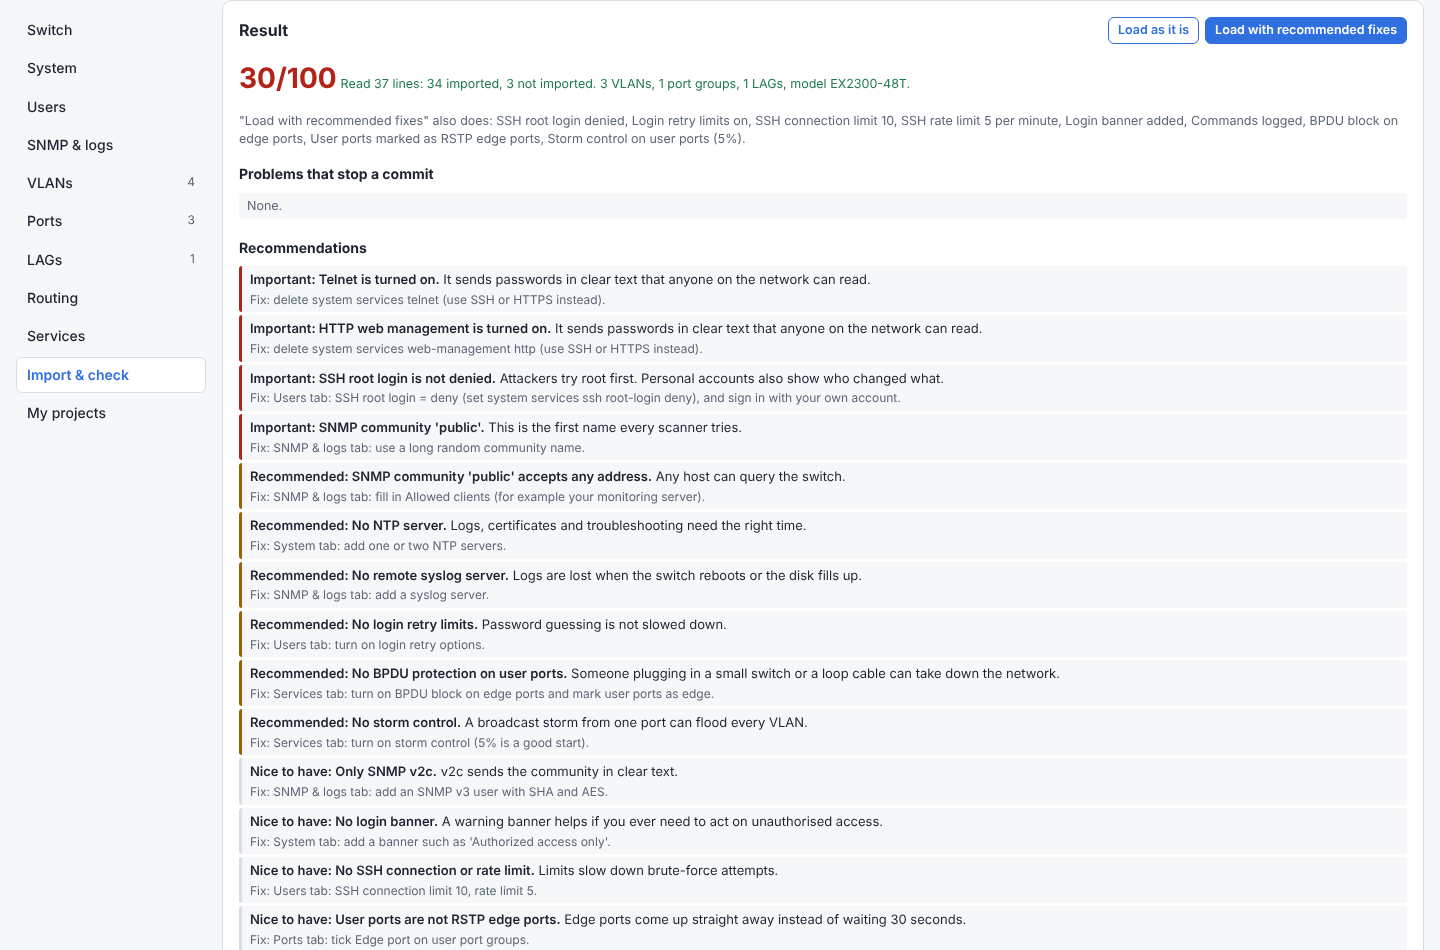
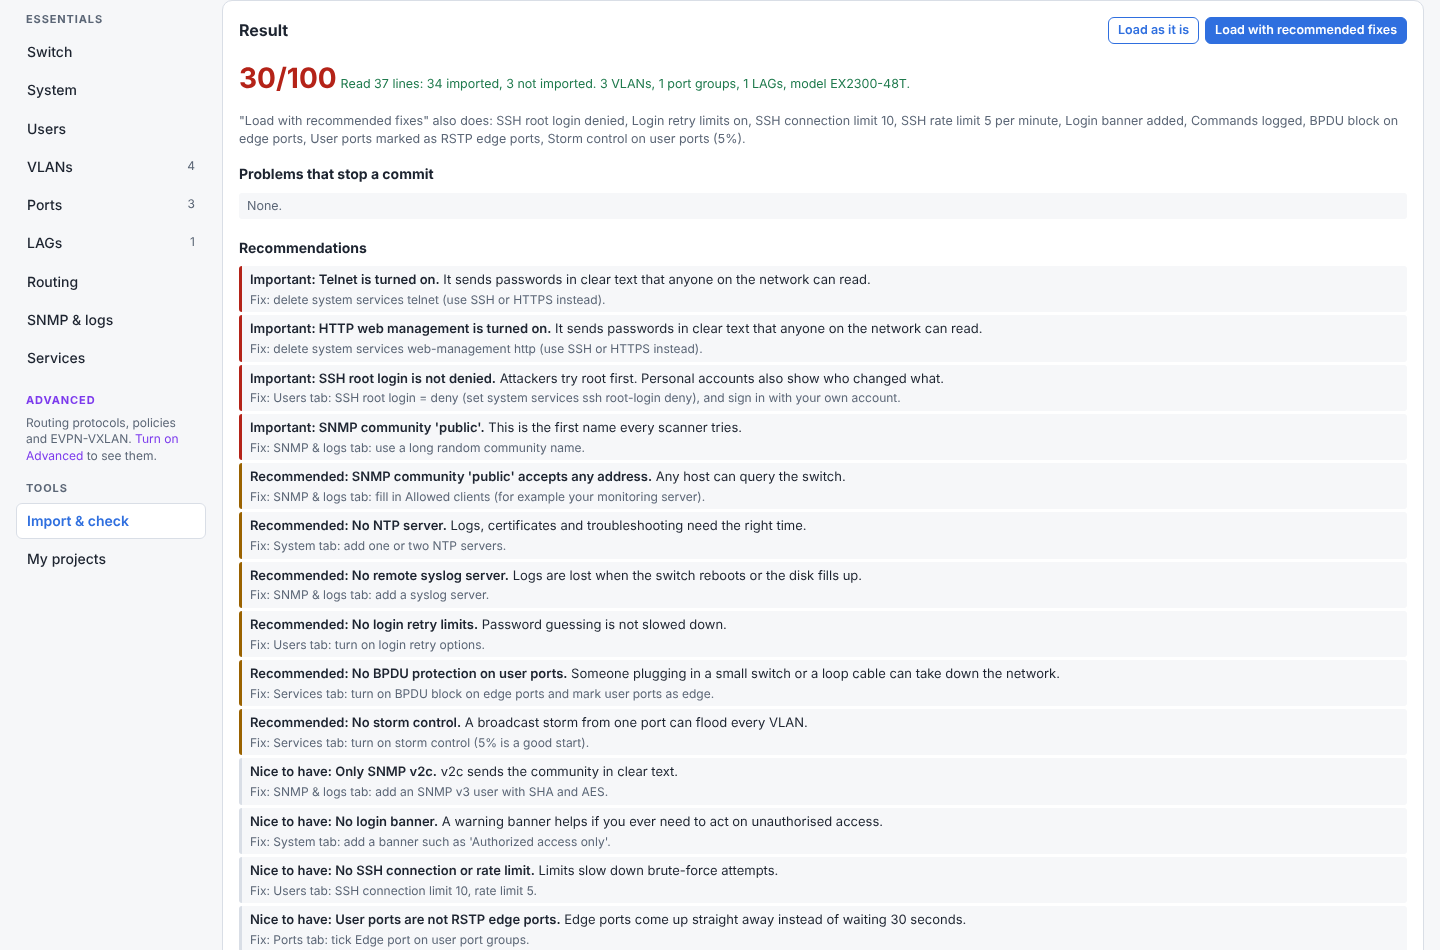
Separate Basic and Advanced more clearly (layout A)
The menu is grouped into Essentials, Advanced and Tools; in Basic mode the
Advanced group shows a short note with a link to turn Advanced on. Advanced
fields of each card and table row are gathered in a purple dashed
'Advanced options' box, and advanced-only cards and tabs get a purple edge.
README screenshots refreshed, plus one of Advanced mode.

Claude-Session: https://claude.ai/code/session_01UaTdFS3yssgob8RVwA9p8W

Changed region(s): [[0.0, 0.0, 0.125, 0.4884], [0.0312, 0.5189, 0.0938, 0.6105]]

diff --git a/src/exbuilder/web/templates/builder.html b/src/exbuilder/web/templates/builder.html
@@ -103,6 +103,23 @@ table.plist td, table.plist th { padding: 6px; border-bottom: 1px solid var(--bo
 code { font-size: 12.5px; }
 .hide { display: none !important; }
 body.basic .adv { display: none !important; }
+/* Advanced options: purple, grouped in a box at the end of each card or table row */
+:root { --advc: #7c3aed; --advbg: rgba(124, 58, 237, .06); }
+@media (prefers-color-scheme: dark) { :root { --advc: #a78bfa; --advbg: rgba(167, 139, 250, .08); } }
+.advbox { grid-column: 1 / -1; flex-basis: 100%; border: 1px dashed var(--advc); background: var(--advbg); border-radius: 8px; padding: 10px 12px 12px; margin-top: 8px; }
+.advbox > .advtitle { grid-column: 1 / -1; font-size: 11px; font-weight: 700; letter-spacing: .06em; text-transform: uppercase; color: var(--advc); margin-bottom: 8px; }
+.advbox > .inner { display: grid; grid-template-columns: repeat(auto-fill, minmax(170px, 1fr)); gap: 10px 14px; align-items: end; }
+.advbox > .inner > .wide { grid-column: 1 / -1; }
+.panel.adv { border-left: 3px solid var(--advc); }
+.panel.adv > h2::after { content: "Advanced"; font-size: 10px; font-weight: 700; letter-spacing: .06em; text-transform: uppercase; color: #fff; background: var(--advc); border-radius: 9px; padding: 2px 7px; margin-left: 8px; vertical-align: 3px; }
+.navhead { font-size: 11px; font-weight: 700; letter-spacing: .08em; text-transform: uppercase; color: var(--muted); margin: 14px 10px 4px; }
+.navhead:first-child { margin-top: 0; }
+.navhead.adv-h { color: var(--advc); }
+.tabs button.advtab { border-left: 3px solid var(--advc); }
+.tabs button.advtab.active { color: var(--advc); }
+.navnote { font-size: 12px; color: var(--muted); margin: 0 10px; line-height: 1.4; }
+.navnote a { color: var(--advc); cursor: pointer; }
+@media (max-width: 760px) { .navhead, .navnote { flex-basis: 100%; margin: 6px 4px 2px; } }
 .levelbar { display: inline-flex; border: 1px solid var(--accent); border-radius: 6px; overflow: hidden; }
 .levelbar button { border: 0; border-radius: 0; background: transparent; color: var(--accent); }
 .levelbar button.sel { background: var(--accent); color: var(--accent-text); }
@@ -935,7 +952,10 @@ function renderTable(path) {
   const el = document.querySelector(`[data-table="${path}"]`); const spec = TABLES[path];
   const rows = getPath(path) || [];
   el.innerHTML = rows.map((row, i) => {
-    const fields = spec.fields.filter(f => (!f.show || f.show(row)) && (!f.adv || isAdvanced())).map(f => fieldHtml(`${path}.${i}`, f, row)).join("");
+    const shown = spec.fields.filter(f => (!f.show || f.show(row)) && (!f.adv || isAdvanced()));
+    const extra = shown.filter(f => f.adv).map(f => fieldHtml(`${path}.${i}`, f, row)).join("");
+    const fields = shown.filter(f => !f.adv).map(f => fieldHtml(`${path}.${i}`, f, row)).join("") +
+      (extra ? `<div class="advbox"><div class="advtitle">Advanced options</div><div class="inner">${extra}</div></div>` : "");
     const rm = `<button class="danger small rm" type="button" data-remove="${path}" data-index="${i}" title="Remove">✕</button>`;
     const title = spec.title ? esc(spec.title(row)) : "";
     const up = i ? `<button class="secondary small" type="button" data-up="${path}" data-index="${i}" title="Move up">↑</button> ` : "";
@@ -1062,6 +1082,8 @@ const TAB_SECTION = {Switch: ["Switch"], System: ["System"], Users: ["Access"], 
                      Ports: ["Ports"], LAGs: ["LAGs"], Routing: ["Routing"], "OSPF & BGP": ["OSPF", "BGP"], Policies: ["Policies"],
                      "EVPN-VXLAN": ["EVPN"], Services: ["Services", "QoS", "Security"], "Import & check": [], "My projects": []};
 const ADVANCED_TABS = ["OSPF & BGP", "Policies", "EVPN-VXLAN"];
+const TAB_GROUPS = [["Essentials", ["Switch", "System", "Users", "VLANs", "Ports", "LAGs", "Routing", "SNMP & logs", "Services"]],
+                    ["Advanced", ADVANCED_TABS], ["Tools", ["Import & check", "My projects"]]];
 let LEVEL = "basic";
 try { LEVEL = localStorage.getItem("exbuilder-level") || "basic"; } catch (e) {}
 function isAdvanced() { return LEVEL === "advanced"; }
@@ -1079,11 +1101,18 @@ let activeTab = "Switch";
 function updateTabs() {
   const nav = document.getElementById("tabs");
   const msgs = result ? result.errors : [];
-  nav.innerHTML = Object.keys(TAB_SECTION).filter(t => isAdvanced() || !ADVANCED_TABS.includes(t)).map(t => {
+  const button = t => {
     const bad = msgs.filter(m => TAB_SECTION[t].includes(m.section)).length;
     let count = "";
     if (t === "VLANs") count = state.vlans.length; else if (t === "Ports") count = state.ports.length; else if (t === "LAGs") count = state.lags.length;
-    return `<button type="button" data-tabbtn="${t}" class="${t === activeTab ? "active" : ""}${bad ? " has-problem" : ""}" title="${bad ? bad + " to fix on this tab" : ""}">${esc(t)}<span class="count ${bad ? "bad" : ""}">${bad ? bad + " ⚠" : (count || "")}</span></button>`;
+    const cls = [t === activeTab ? "active" : "", bad ? "has-problem" : "", ADVANCED_TABS.includes(t) ? "advtab" : ""].join(" ").trim();
+    return `<button type="button" data-tabbtn="${t}" class="${cls}" title="${bad ? bad + " to fix on this tab" : ""}">${esc(t)}<span class="count ${bad ? "bad" : ""}">${bad ? bad + " ⚠" : (count || "")}</span></button>`;
+  };
+  nav.innerHTML = TAB_GROUPS.map(([head, tabs]) => {
+    const adv = tabs === ADVANCED_TABS;
+    if (adv && !isAdvanced())
+      return `<div class="navhead adv-h">${head}</div><p class="navnote">Routing protocols, policies and EVPN-VXLAN. <a data-level-link="advanced">Turn on Advanced</a> to see them.</p>`;
+    return `<div class="navhead${adv ? " adv-h" : ""}">${head}</div>` + tabs.map(button).join("");
   }).join("");
   document.querySelectorAll("#sections > section").forEach(s => s.classList.toggle("active", s.dataset.tab === activeTab));
 }
@@ -1673,7 +1702,25 @@ document.getElementById("btn-excel").onclick = async () => {
     setStatus("Downloaded the Excel workbook.", "ok");
   } catch (e) { setStatus("Excel export failed: " + e.message, "bad"); }
 };
-document.addEventListener("click", ev => { const b = ev.target.closest("[data-level]"); if (b) setLevel(b.dataset.level); });
+document.addEventListener("click", ev => {
+  const b = ev.target.closest("[data-level], [data-level-link]"); if (b) setLevel(b.dataset.level || b.dataset.levelLink);
+});
+// Gather the advanced fields of each card into one purple "Advanced options" box at its end.
+function boxAdvanced() {
+  const title = '<div class="advtitle">Advanced options</div>';
+  document.querySelectorAll("#sections .grid.adv").forEach(g => { g.classList.add("advbox"); g.insertAdjacentHTML("afterbegin", title); });
+  const parents = new Set();
+  document.querySelectorAll("#sections .adv").forEach(el => {
+    if (el.matches(".panel, .advbox") || el.closest(".advbox")) return;
+    parents.add(el.parentElement);
+  });
+  parents.forEach(parent => {
+    const box = document.createElement("div"); box.className = "advbox adv";
+    box.innerHTML = title + '<div class="inner"></div>';
+    parent.querySelectorAll(":scope > .adv").forEach(el => box.lastChild.appendChild(el));
+    parent.appendChild(box);
+  });
+}
 fillModelSelect(document.getElementById("imp-model"), "");
 
 // ---------------------------------------------------------------- drafts
@@ -1682,6 +1729,7 @@ function saveDraft() { try { localStorage.setItem(DRAFT_KEY, JSON.stringify(stat
   let draft = null;
   try { draft = JSON.parse(localStorage.getItem(DRAFT_KEY) || "null"); activeTab = localStorage.getItem("exbuilder-tab") || "Switch"; } catch (e) {}
   if (!TAB_SECTION[activeTab]) activeTab = "Switch";
+  boxAdvanced();
   setLevel(LEVEL, true);
   load(draft || {});
   if (!isAdvanced() && ADVANCED_TABS.includes(activeTab)) activeTab = "Switch";

diff --git a/README.md b/README.md
@@ -13,7 +13,11 @@ format, ready to copy or download.
    needs: system, users, SNMP and logs, VLANs, ports, LAGs, static routes and
    services. Advanced adds OSPF, BGP, policies, EVPN-VXLAN and the less common
    fields (speed, MTU, MAC limit, VC pre-provisioning and so on). Settings you
-   already made stay in the config when you switch to Basic.
+   already made stay in the config when you switch to Basic. The menu is split
+   into **Essentials**, **Advanced** and **Tools**. In Advanced mode the extra
+   fields of each card or port group sit together in a purple dashed
+   **Advanced options** box, and advanced-only tabs and cards have a purple edge,
+   so you can always tell the basics from the extras.
 2. **Start from something.** Choose a model on the Switch tab, load an example,
    import your current config, or fill in the Excel template (see below).
 3. **Work through the tabs.** Click ports on the port map to make a port group or
@@ -29,6 +33,8 @@ format, ready to copy or download.
    on the switch as described in [Applying the config](#applying-the-config-on-a-switch).
 
 ![Port groups and the port map](docs/screenshots/02-ports.png)
+
+![Advanced mode: the extra fields in a purple Advanced options box](docs/screenshots/07-advanced-options.png)
 
 The port map colours each port by what it does: access, trunk, routed, LAG
 member, phones (or a voice VLAN), Wi-Fi access points and cameras ("Connected
